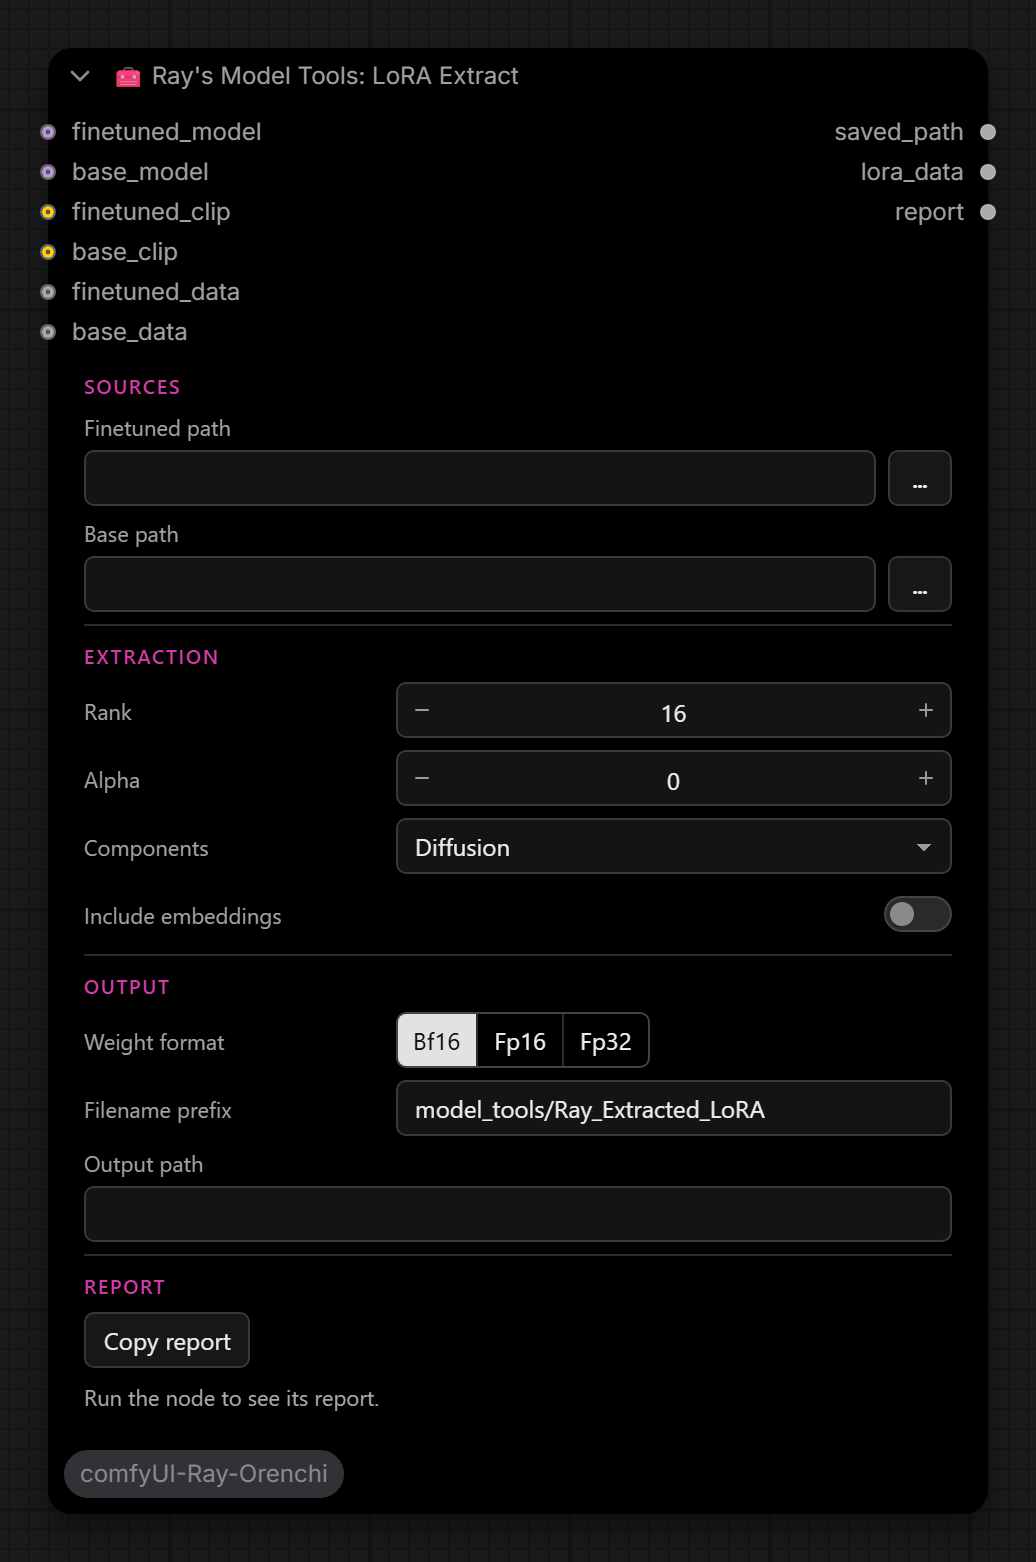
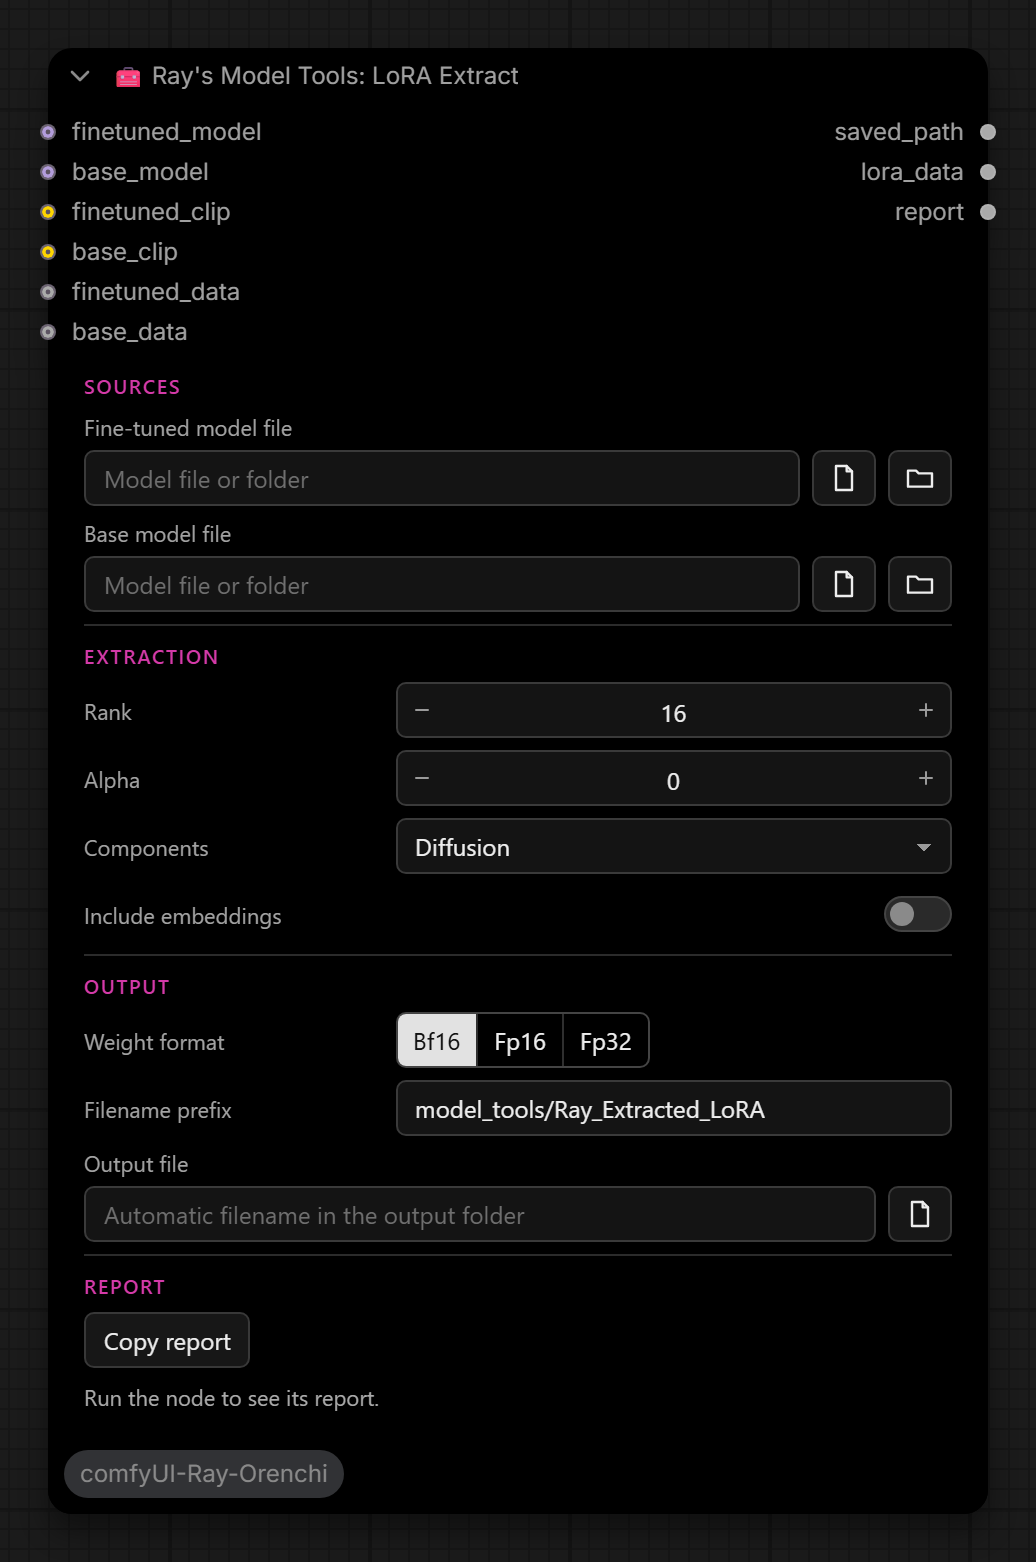
Align model tool browsing with shared node controls

diff --git a/web/ray_model_tools.js b/web/ray_model_tools.js
@@ -30,7 +30,7 @@ function styles() {
     if (document.getElementById("ray-model-tools-style")) return;
     const style = el("style"); style.id = "ray-model-tools-style";
     style.textContent = `.rmt{display:flex;flex-direction:column;gap:7px;min-width:0;width:100%;pointer-events:auto}
-    .rmt [hidden]{display:none!important}.rmt-toolbar{display:flex;gap:5px;flex-wrap:wrap}.rmt button{padding:5px 9px}.rmt input,.rmt textarea,.rmt select{background:#141414;color:#eee;border:1px solid #383838;border-radius:4px;padding:5px;font:12px system-ui;min-width:0}
+    .rmt [hidden]{display:none!important}.rmt-toolbar{display:flex;align-items:center;gap:6px;flex-wrap:wrap}.rmt button{height:28px;padding:4px 9px}.rmt input,.rmt textarea,.rmt select{background:#141414;color:#eee;border:1px solid #3a3a3a;border-radius:5px;padding:4px 9px;font:12px system-ui;min-width:0}
     .rmt input{width:100%}.rmt textarea{width:100%;resize:vertical;min-height:54px;max-height:240px;font:11px monospace}.rmt pre{font:11px monospace;white-space:pre-wrap;word-break:break-word;margin:0;max-height:240px;overflow:auto}
     .rmt-scroll{max-height:330px;overflow:auto;scrollbar-width:thin}.rmt-table{width:100%;border-collapse:collapse;font:11px system-ui;table-layout:fixed}.rmt-table th{text-align:left;color:#aaa;position:sticky;top:0;background:#080808}.rmt-table th:first-child{width:64%}.rmt-table th:nth-child(2){width:23%}.rmt-table th:nth-child(3){width:13%}.rmt-table td,.rmt-table th{padding:5px;border-bottom:1px solid #272727;vertical-align:top;overflow-wrap:anywhere}
     .rmt-row{display:grid;grid-template-columns:minmax(95px,1fr) minmax(120px,1.5fr) 52px;gap:5px;padding-bottom:7px;border-bottom:1px solid #252525}.rmt-key{display:flex;flex-direction:column;gap:5px}.rmt-row details{font-size:10px;color:#aaa}.rmt-message{color:#aaa;font-size:11px;white-space:pre-wrap}.rmt-error{color:#ff9292}.rmt-raw{min-height:180px!important}`;
@@ -154,6 +154,7 @@ export function createReport(node, id) {
         if (Array.isArray(report.rows)) {
             const filtered = filterTensors(report.rows, query, page); page = filtered.page;
             count.textContent = `${filtered.total} shown · page ${page + 1}/${filtered.pages}`;
+            previous.disabled = page === 0; next.disabled = page >= filtered.pages - 1;
             const table = el("table", undefined, "rmt-table"), head = el("thead"), tr = el("tr");
             for (const label of ["Tensor", "Shape", "Dtype"]) tr.append(el("th", label));
             head.append(tr); table.append(head);
@@ -184,7 +185,10 @@ export function createReport(node, id) {
         catch (error) { notify(error.message); }
     }));
     search.oninput = () => { query = search.value; page = 0; render(); };
-    paging.append(button("Previous", () => { page--; render(); }), count, button("Next", () => { page++; render(); }));
+    const previous = button("‹", () => { page--; render(); }), next = button("›", () => { page++; render(); });
+    previous.title = "Previous tensor page"; next.title = "Next tensor page";
+    previous.setAttribute("aria-label", previous.title); next.setAttribute("aria-label", next.title);
+    paging.append(previous, count, next);
     root.append(toolbar, summary, search, paging, content);
     watchHeight(node, root);
     node._rayModelToolsView = { show, root };
@@ -229,7 +233,13 @@ const SECTIONS = {
 const LABELS = {
     model_name: "Model", lora_name: "LoRA", lora_path: "LoRA file",
     strength_model: "Model strength", strength_clip: "CLIP strength", metadata_json: "Metadata (JSON)",
+    path: "Model file", path_a: "Model A file", path_b: "Model B file", base_path: "Base model file",
+    finetuned_path: "Fine-tuned model file", source_model_path: "Source model file", output_path: "Output file",
 };
+const MODEL_FILTERS = [["Safetensors", ["safetensors"]]];
+const INSPECT_FILTERS = [["Model files", ["safetensors", "gguf"]]];
+const METADATA_FILTERS = [["Models / metadata", ["safetensors", "json"]]];
+const outputExtension = (node, id) => id === "RayModelMetadataSave" && value(node, "mode") === "json_sidecar" ? "json" : "safetensors";
 
 export function installModelTools(node, id) {
     if (node._rayModelTools) return;
@@ -240,8 +250,20 @@ export function installModelTools(node, id) {
     const fields = native.map(w => {
         const field = { name: w.name, label: LABELS[w.name], full: /path|block_weights|metadata_json/.test(w.name) };
         if (/^(path|path_a|path_b|base_path|finetuned_path|lora_path|source_model_path)$/.test(w.name)) {
-            field.actions = [{ label: "…", title: `Browse ${w.name.replaceAll("_", " ")}`,
-                onClick: () => browseInto(node, w.name, { kind: "file", filters: [["Model / metadata", ["safetensors", "json", "gguf"]]] }) }];
+            const metadata = id === "RayModelMetadata";
+            if (metadata) field.label = "Model / metadata file";
+            field.browse = { kind: "file", title: `Choose ${field.label.toLowerCase()}`,
+                filters: metadata ? METADATA_FILTERS : id === "RayModelInspector" ? INSPECT_FILTERS : MODEL_FILTERS };
+            field.placeholder = metadata ? "Model file, folder or metadata JSON" : "Model file or folder";
+            if (w.name === "lora_path") field.placeholder = "Path to a LoRA file";
+            else if (w.name === "source_model_path") field.placeholder = "Path to a model file";
+            else field.actions = [{ icon: "folder", title: "Choose a model folder",
+                onClick: () => browseInto(node, w.name, { kind: "folder", title: "Choose a model folder" }) }];
+        }
+        if (w.name === "output_path") {
+            field.browse = n => ({ kind: "save", title: "Choose output file",
+                filters: [[outputExtension(n, id) === "json" ? "Metadata JSON" : "Safetensors", [outputExtension(n, id)]]] });
+            field.placeholder = "Automatic filename in the output folder";
         }
         if (id === "RayModelMerge" && ["density", "lambda", "top_trim", "bottom_trim", "seed"].includes(w.name)) {
             field.when = n => mergeFields(String(value(n, "strategy")))[w.name];

diff --git a/web/ray_panel.js b/web/ray_panel.js
@@ -485,10 +485,14 @@ export function installPanel(node, spec = {}) {
         if (kind === "path") {
             const wrap = el("div", "rp-control");
             wrap.style.flex = "1 1 0";
-            const input = textInput(widget, { placeholder: field.placeholder ?? (field.browse?.kind === "file" ? "Path to a file" : "Path to a folder"), ...field });
-            const { kind: pick = "folder", title, filters } = field.browse || {};
-            const browse = iconButton(pick === "file" ? "file" : "folder", pick === "file" ? "Choose a file" : "Choose a folder", async () => {
+            const options = () => (typeof field.browse === "function" ? field.browse(node) : field.browse) || {};
+            const pick = options().kind || "folder";
+            const input = textInput(widget, { placeholder: field.placeholder ?? (pick === "folder" ? "Path to a folder" : "Path to a file"), ...field });
+            const browse = iconButton(pick === "folder" ? "folder" : "file",
+                pick === "save" ? "Choose a save file" : pick === "file" ? "Choose a file" : "Choose a folder", async () => {
+                if (linkOf(node, widget.name)) return;
                 try {
+                    const { kind: pick = "folder", title, filters } = options();
                     const picked = await browsePath(pick, String(widget.value ?? ""), { title, filters });
                     if (picked) write(widget, picked);
                 } catch (error) { notify(error.message); }

diff --git a/browse_routes.py b/browse_routes.py
@@ -20,7 +20,7 @@ try:
 except ImportError:
     from route_security import is_local, require_local
 
-KINDS = ("folder", "file")
+KINDS = ("folder", "file", "save")
 TIMEOUT_SECONDS = 15 * 60
 MAX_FILTERS = 8
 _busy = threading.Lock()
@@ -43,7 +43,7 @@ def clean_filters(filters):
         except (TypeError, ValueError):
             continue
         exts = [e.lstrip(".").lower() for e in exts if isinstance(e, str)] if isinstance(exts, list) else []
-        exts = [e for e in exts if re.fullmatch(r"[a-z0-9]{1,8}", e)]
+        exts = [e for e in exts if re.fullmatch(r"[a-z0-9]{1,16}", e)]
         if exts:
             out.append((re.sub(r"[|\n\r]", " ", str(label))[:40] or "Files", exts))
         if len(out) >= MAX_FILTERS:
@@ -58,6 +58,10 @@ def start_location(kind, initial):
     if not text or not os.path.isabs(text):
         return "", ""
     path = os.path.normpath(text)
+    if kind == "save" and not os.path.isdir(path):
+        folder = os.path.dirname(path)
+        if os.path.isdir(folder):
+            return folder, os.path.basename(path)
     if kind == "file" and os.path.isfile(path):
         return os.path.dirname(path), os.path.basename(path)
     while path and not os.path.isdir(path):
@@ -83,9 +87,14 @@ try:
 except Exception:
     pass
 root.update()
-types = [(label, " ".join("*." + e for e in exts)) for label, exts in json.loads(filters)] + [("All files", "*.*")]
+filter_defs = json.loads(filters)
+types = [(label, " ".join("*." + e for e in exts)) for label, exts in filter_defs] + [("All files", "*.*")]
 if kind == "folder":
     path = filedialog.askdirectory(parent=root, title=title, initialdir=folder or None, mustexist=False)
+elif kind == "save":
+    extension = "." + filter_defs[0][1][0] if filter_defs else ""
+    path = filedialog.asksaveasfilename(parent=root, title=title, initialdir=folder or None, initialfile=name or None,
+                                      filetypes=types, defaultextension=extension, confirmoverwrite=False)
 else:
     path = filedialog.askopenfilename(parent=root, title=title, initialdir=folder or None, initialfile=name or None, filetypes=types)
 sys.stdout.buffer.write((path or "").encode("utf-8"))
@@ -95,7 +104,7 @@ sys.stdout.buffer.write((path or "").encode("utf-8"))
 def build_command(kind, initial, title, filters):
     """The command that shows the dialog and prints the chosen path. Pure, so it can be tested."""
     folder, name = start_location(kind, initial)
-    title = str(title or ("Choose a folder" if kind == "folder" else "Choose a file"))[:120]
+    title = str(title or {"folder": "Choose a folder", "file": "Choose a file", "save": "Choose a save file"}[kind])[:120]
     return [sys.executable, "-c", _TK, kind, folder, name, title, json.dumps(clean_filters(filters))]
 
 
@@ -119,7 +128,7 @@ def run_command(argv, timeout=TIMEOUT_SECONDS):
 
 def pick(kind, initial="", title="", filters=None):
     if kind not in KINDS:
-        raise ValueError("kind must be 'folder' or 'file'.")
+        raise ValueError("kind must be 'folder', 'file' or 'save'.")
     if not _busy.acquire(blocking=False):
         raise BrowseBusy("A file dialog is already open.")
     try:

diff --git a/MODEL_TOOLS.md b/MODEL_TOOLS.md
@@ -24,6 +24,14 @@ handle to a safetensors file; use it between file operations and Save Model.
 **metadata** is a structured connection shared by metadata and save nodes.
 Reports are also available as STRING outputs.
 
+Use the file icon beside a source path to choose a model or metadata file.
+Where available, the folder icon chooses a model directory, including sharded models.
+The file icon beside **Output file** opens Save As; Metadata Save switches
+between JSON and safetensors according to its mode. Leave Output file blank to
+use the filename prefix and ComfyUI output folder. Choosing a path does not
+write a file; run the node to save it, with **overwrite** controlling replacement
+of an existing file.
+
 A connected MODEL takes priority over model_data and path inputs. Operations on
 a live MODEL export its effective weights through ComfyUI's save API first.
 Connect CLIP/VAE when those components need to travel with it. A MODEL alone

diff --git a/AGENTS.md b/AGENTS.md
@@ -41,6 +41,12 @@ sections with the shared thin horizontal rule; hide empty sections and their
 separators together. Apply the same treatment to custom panels. Preserve compact
 analog modes and native input/output ports.
 
+Use the shared Ray panel path controls and icon helpers for browsing and navigation.
+Keep the established file/folder SVGs, compact button dimensions and spacing.
+Use the file dialog for sources and Save As for explicit output files; preserve
+cancellation and linked-input behavior. Keep output filters aligned with the
+node's current mode.
+
 ## Documentation audience
 
 README and node documentation are for end users. Describe features, controls,
